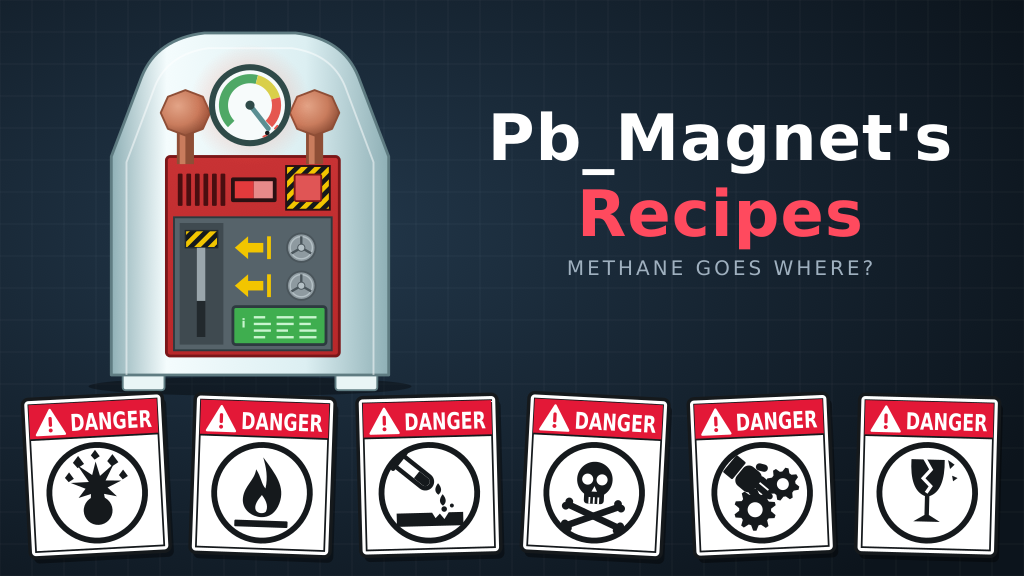
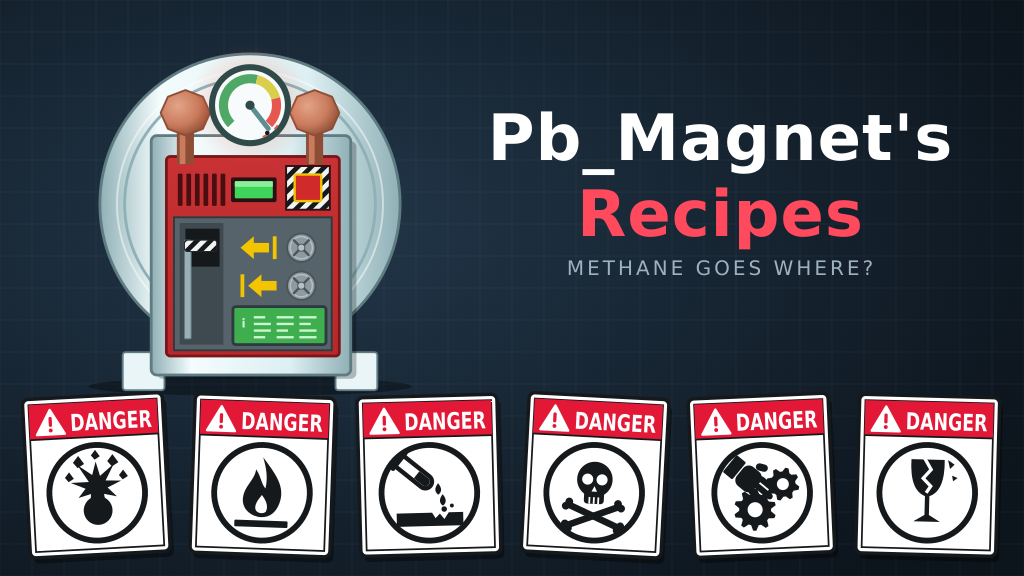
Art: furnace closer to the in-game Advanced Furnace
Round chamber wider than the console box, black and white hazard stripes,
striped lever crossbar, green switch, four-spoke valve wheels, and the
second arrow's bar at its tip as in game.

Changed region(s): [[0.0938, 0.0312, 0.4062, 0.6562]]

diff --git a/art/make_art.py b/art/make_art.py
@@ -18,6 +18,7 @@ RED = "#E31837"
 ACCENT = "#FF4A5E"  # label red, lifted for contrast on the dark background
 INK = "#15191C"
 HAZARD_YELLOW = "#F2C500"
+HAZARD_WHITE = "#F2F4F2"
 BODY = ("#8FB0B6", "#DCEFF2", "#F4FCFD")  # dark edge, base, highlight
 PANEL_RED = ("#7A1618", "#B8282A")
 PANEL_GREY = "#56636A"
@@ -35,7 +36,7 @@ def defs():
         f'<linearGradient id="panel" x1="0" y1="0" x2="0" y2="1">'
         f'<stop offset="0" stop-color="#C83234"/><stop offset="1" stop-color="{PANEL_RED[1]}"/></linearGradient>'
         f'<pattern id="hazard" patternUnits="userSpaceOnUse" width="10" height="10" patternTransform="rotate(45)">'
-        f'<rect width="10" height="10" fill="{HAZARD_YELLOW}"/><rect width="5" height="10" fill="{INK}"/></pattern>'
+        f'<rect width="10" height="10" fill="{HAZARD_WHITE}"/><rect width="5" height="10" fill="{INK}"/></pattern>'
         '<radialGradient id="glow" cx="0.5" cy="0.5" r="0.5">'
         '<stop offset="0" stop-color="#FF5A3C" stop-opacity="0.35"/>'
         '<stop offset="1" stop-color="#FF5A3C" stop-opacity="0"/></radialGradient>'
@@ -85,40 +86,50 @@ def valve_wheel(cx, cy, r=15):
     spokes = "".join(
         f'<line x1="{cx}" y1="{cy}" x2="{cx + r * 0.8 * math.cos(math.radians(a)):.1f}" '
         f'y2="{cy + r * 0.8 * math.sin(math.radians(a)):.1f}" stroke="#4A555B" stroke-width="2.5"/>'
-        for a in (30, 150, 270))
+        for a in (45, 135, 225, 315))
     return (f'<circle cx="{cx}" cy="{cy}" r="{r}" fill="#8E9AA0" stroke="#4A555B" stroke-width="2"/>'
             f'<circle cx="{cx}" cy="{cy}" r="{r * 0.78:.1f}" fill="none" stroke="#B4C0C5" stroke-width="1.5"/>'
             + spokes + f'<circle cx="{cx}" cy="{cy}" r="{r * 0.25:.1f}" fill="#B4C0C5" stroke="#4A555B"/>')
 
 
-def arrow_left(x, cy):
-    """Yellow import arrow with its bar, pointing left; x is the arrow tip."""
+def arrow_left(x, cy, bar_at_tip=False):
+    """Yellow arrow pointing left with a bar behind its tail (leaving) or in front of its tip (arriving).
+
+    x is the left edge of the whole glyph.
+    """
     y = HAZARD_YELLOW
-    return (f'<polygon points="{x},{cy} {x + 14},{cy - 12} {x + 14},{cy - 5} {x + 30},{cy - 5} {x + 30},{cy + 5} '
-            f'{x + 14},{cy + 5} {x + 14},{cy + 12}" fill="{y}"/>'
-            f'<rect x="{x + 34}" y="{cy - 12}" width="4" height="24" fill="{y}"/>')
+    tip = x + 8 if bar_at_tip else x
+    bar = x if bar_at_tip else x + 34
+    return (f'<polygon points="{tip},{cy} {tip + 14},{cy - 12} {tip + 14},{cy - 5} {tip + 30},{cy - 5} {tip + 30},{cy + 5} '
+            f'{tip + 14},{cy + 5} {tip + 14},{cy + 12}" fill="{y}"/>'
+            f'<rect x="{bar}" y="{cy - 12}" width="4" height="24" fill="{y}"/>')
 
 
 def furnace(ox, oy, scale):
     """Advanced Furnace front, drawn 320 x 380 in its own coordinates, top-left at (ox, oy)."""
-    body = (f'<path d="M14,380 L14,150 L46,66 Q62,26 112,20 L208,20 Q258,26 274,66 L306,150 L306,380 Z" '
-            f'fill="url(#body)" stroke="#5F7C82" stroke-width="3" stroke-linejoin="round"/>'
-            f'<path d="M30,380 L30,156 L60,76 Q74,42 116,36 L204,36 Q246,42 260,76 L290,156 L290,380" '
-            f'fill="none" stroke="#FFFFFF" stroke-opacity="0.5" stroke-width="2"/>')
+    # Round chamber seen end-on, with the console box standing in front of it.
+    body = ('<circle cx="160" cy="200" r="158" fill="url(#body)" stroke="#5F7C82" stroke-width="3"/>'
+            '<circle cx="160" cy="200" r="140" fill="none" stroke="#FFFFFF" stroke-opacity="0.5" stroke-width="2"/>'
+            '<circle cx="160" cy="200" r="132" fill="none" stroke="#8FB0B6" stroke-width="3"/>'
+            '<rect x="62" y="134" width="210" height="250" rx="6" fill="#000" opacity="0.25"/>'
+            '<rect x="56" y="128" width="210" height="252" rx="6" fill="url(#body)" stroke="#5F7C82" stroke-width="3"/>')
     feet = "".join(
         f'<rect x="{x}" y="356" width="44" height="40" rx="3" fill="#E9F5F6" stroke="#5F7C82" stroke-width="2"/>'
         for x in (26, 250))
     top = knob(92, 104) + knob(228, 104) + gauge(160, 96)
     vents = "".join(f'<rect x="{84 + i * 9}" y="168" width="5" height="34" rx="1" fill="#4A0E10"/>' for i in range(6))
     switch = ('<rect x="140" y="172" width="48" height="26" rx="2" fill="#2A1012"/>'
-              '<rect x="144" y="176" width="20" height="18" fill="#E23A3C"/><rect x="164" y="176" width="20" height="18" fill="#E78A8A"/>')
+              '<rect x="144" y="176" width="40" height="18" rx="1" fill="#3FD45A"/>'
+              '<rect x="144" y="176" width="40" height="6" rx="1" fill="#8AF09A"/>')
     button = ('<rect x="198" y="160" width="46" height="46" fill="url(#hazard)" stroke="#2A1012" stroke-width="2"/>'
-              '<rect x="207" y="169" width="28" height="28" rx="2" fill="#E05555" stroke="#7A1618" stroke-width="2"/>')
+              f'<rect x="207" y="169" width="28" height="28" rx="2" fill="#D02A2A" stroke="{HAZARD_YELLOW}" stroke-width="2.5"/>')
+    # Slot at the top holding a striped crossbar; the arm runs down the left side of the column.
     lever = ('<rect x="86" y="220" width="46" height="128" fill="#3F4A50"/>'
-             '<rect x="104" y="240" width="9" height="100" fill="#22292D"/>'
-             '<rect x="92" y="228" width="34" height="18" fill="url(#hazard)" stroke="#22292D" stroke-width="1.5"/>'
-             '<rect x="104" y="246" width="9" height="56" fill="#9AA6AC"/>')
-    controls = (arrow_left(144, 246) + valve_wheel(214, 246) + arrow_left(144, 286) + valve_wheel(214, 286))
+             '<rect x="92" y="226" width="36" height="40" fill="#15191C"/>'
+             '<rect x="91" y="238" width="7" height="104" rx="1" fill="#9AB0B6" stroke="#5F7C82" stroke-width="1"/>'
+             '<rect x="91" y="238" width="34" height="12" rx="3" fill="url(#hazard)" stroke="#22292D" stroke-width="1"/>')
+    controls = (arrow_left(150, 246) + valve_wheel(214, 246) + arrow_left(150, 286, bar_at_tip=True)
+                + valve_wheel(214, 286))
     screen_lines = "".join(
         f'<rect x="{164 + c * 24}" y="{318 + r * 7}" width="{18 if (r + c) % 3 else 12}" height="2.5" fill="#C9F5CF"/>'
         for r in range(4) for c in range(3))
